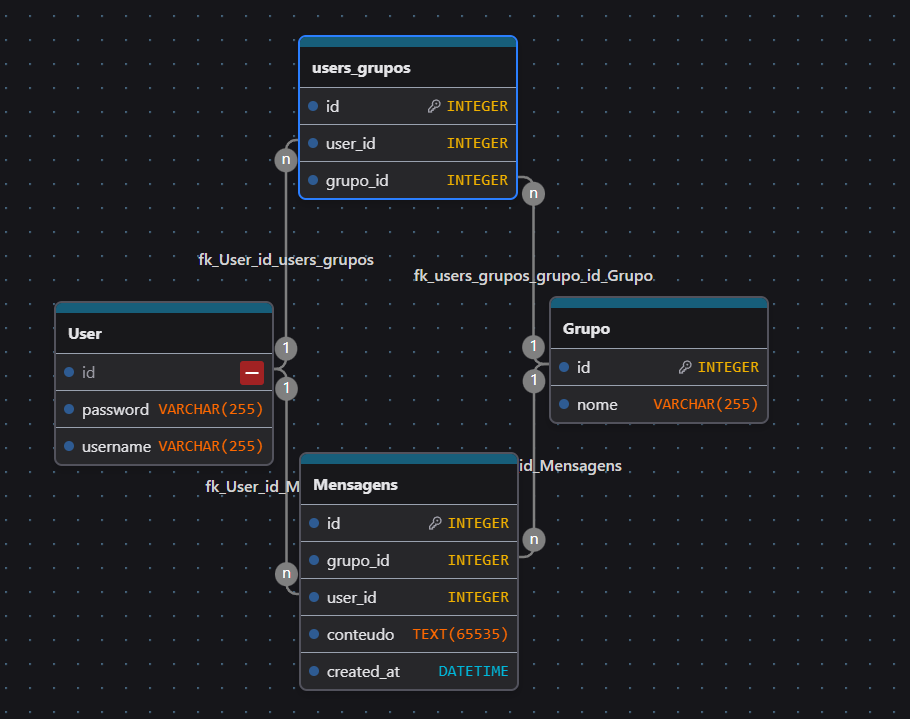
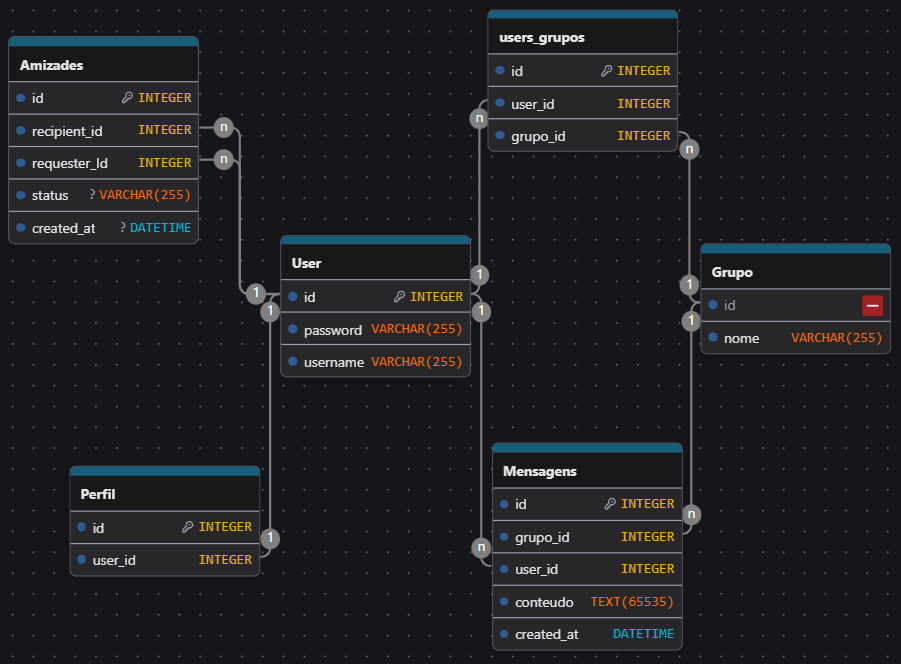
Mudança banco de dados /Amizades e perfil

Changed region(s): [[0.0, 0.0, 0.9945, 0.994]]

diff --git a/aprender/conversationapp/static/conversationapp/css/conversas.css b/aprender/conversationapp/static/conversationapp/css/conversas.css
@@ -11,16 +11,24 @@ body {
   background: #f5f7fb;
 }
 
+.painel-grupos {
+  width: 290px;
+  flex: 0 0 auto;
+  border-right: 1px solid #e6eaf2;
+  background: #f8fbff;
+  overflow: hidden;
+  transition: width 0.32s ease, border-color 0.32s ease;
+}
+
 .barra-esquerda {
   width: 290px;
   padding: 14px;
-  border-right: 1px solid #e6eaf2;
-  background: #f8fbff;
   display: flex;
   flex-direction: column;
   gap: 8px;
   height: 100vh;
   overflow-y: auto;
+  transition: transform 0.32s ease;
 }
 
 .botao-grupo {
@@ -56,8 +64,50 @@ body {
 
 .cabecalho-conversa {
   border-bottom: 1px solid #e6eaf2;
-  padding: 16px 20px;
+  padding: 0;
   background: #fff;
+  position: relative;
+}
+
+.cabecalho-textos {
+  display: flex;
+  flex-direction: column;
+  justify-content: center;
+  min-height: 74px;
+  padding: 16px 20px 16px 32px;
+  min-width: 0;
+}
+
+.botao-toggle-grupos {
+  width: 16px;
+  border: 0;
+  border-right: 1px solid #cfd8eb;
+  background: #f2f5fb;
+  cursor: pointer;
+  padding: 0;
+  position: absolute;
+  left: 0;
+  top: 0;
+  bottom: 0;
+  transition: background 0.2s ease, border-color 0.2s ease;
+}
+
+.botao-toggle-grupos::before {
+  content: "";
+  position: absolute;
+  top: 50%;
+  left: 50%;
+  width: 6px;
+  height: 6px;
+  border-left: 2px solid #60708d;
+  border-bottom: 2px solid #60708d;
+  transform: translate(-35%, -50%) rotate(45deg);
+  transition: transform 0.32s ease;
+}
+
+.botao-toggle-grupos:hover {
+  background: #e8eef9;
+  border-color: #b9c8e6;
 }
 
 .cabecalho-conversa h2 {
@@ -152,5 +202,18 @@ body {
 .composer input:disabled {
   opacity: 0.6;
   cursor: not-allowed;
+}
+
+body.grupos-ocultos .painel-grupos {
+  width: 0;
+  border-right-color: transparent;
+}
+
+body.grupos-ocultos .barra-esquerda {
+  transform: translateX(-100%);
+}
+
+body.grupos-ocultos .botao-toggle-grupos::before {
+  transform: translate(-65%, -50%) rotate(-135deg);
 }
 

diff --git a/aprender/conversationapp/templates/conversationapp/conversas.html b/aprender/conversationapp/templates/conversationapp/conversas.html
@@ -9,25 +9,36 @@
   <link rel="stylesheet" href="{% static 'conversationapp/css/conversas.css' %}">
 </head>
 <body>
-  <div class="barra-esquerda">
-    {% for grupo in grupos %}
-      <button
-        type="button"
-        class="botao-grupo"
-        data-grupo-id="{{ grupo.id }}"
-        data-grupo-nome="{{ grupo.nome }}"
-      >
-        {{ grupo.nome }}
-      </button>
-    {% empty %}
-      <p class="sem-grupos">Voce ainda nao participa de nenhum grupo.</p>
-    {% endfor %}
-  </div>
+  <aside class="painel-grupos">
+    <div class="barra-esquerda">
+      {% for grupo in grupos %}
+        <button
+          type="button"
+          class="botao-grupo"
+          data-grupo-id="{{ grupo.id }}"
+          data-grupo-nome="{{ grupo.nome }}"
+        >
+          {{ grupo.nome }}
+        </button>
+      {% empty %}
+        <p class="sem-grupos">Voce ainda nao participa de nenhum grupo.</p>
+      {% endfor %}
+    </div>
+  </aside>
 
   <section class="painel-conversa" data-user-id="{{ request.user.id }}">
     <header class="cabecalho-conversa">
-      <h2 id="titulo-grupo">Selecione um grupo</h2>
-      <p id="status-conexao" class="status-conexao">Sem conexao ativa</p>
+      <button
+        id="btn-toggle-grupos"
+        class="botao-toggle-grupos"
+        type="button"
+        aria-label="Ocultar grupos"
+        aria-expanded="true"
+      ></button>
+      <div class="cabecalho-textos">
+        <h2 id="titulo-grupo">Selecione um grupo</h2>
+        <p id="status-conexao" class="status-conexao">Sem conexao ativa</p>
+      </div>
     </header>
 
     <main id="lista-mensagens" class="lista-mensagens">

diff --git a/aprender/conversationapp/static/conversationapp/js/conversas.js b/aprender/conversationapp/static/conversationapp/js/conversas.js
@@ -3,6 +3,7 @@
   const userId = Number(painelConversa?.dataset.userId || 0);
 
   const botoesGrupo = [...document.querySelectorAll(".botao-grupo")];
+  const btnToggleGrupos = document.getElementById("btn-toggle-grupos");
   const tituloGrupo = document.getElementById("titulo-grupo");
   const statusConexao = document.getElementById("status-conexao");
   const listaMensagens = document.getElementById("lista-mensagens");
@@ -14,6 +15,19 @@
 
   let socket = null;
   let grupoAtualId = null;
+
+  function atualizarEstadoBotaoGrupos() {
+    if (!btnToggleGrupos) {
+      return;
+    }
+
+    const gruposOcultos = document.body.classList.contains("grupos-ocultos");
+    btnToggleGrupos.setAttribute("aria-expanded", (!gruposOcultos).toString());
+    btnToggleGrupos.setAttribute(
+      "aria-label",
+      gruposOcultos ? "Mostrar grupos" : "Ocultar grupos"
+    );
+  }
 
   function atualizarStatus(texto) {
     if (statusConexao) {
@@ -241,6 +255,14 @@
         atualizarStatus("Erro ao enviar mensagem");
         console.error("Erro ao enviar mensagem:", erro);
       }
+    });
+  }
+
+  if (btnToggleGrupos) {
+    atualizarEstadoBotaoGrupos();
+    btnToggleGrupos.addEventListener("click", () => {
+      document.body.classList.toggle("grupos-ocultos");
+      atualizarEstadoBotaoGrupos();
     });
   }
 

diff --git a/aprender/conversationapp/static/conversationapp/js/perfil.js b/aprender/conversationapp/static/conversationapp/js/perfil.js
@@ -1,0 +1,1 @@
+// Nada aqui.

diff --git a/aprender/conversationapp/models.py b/aprender/conversationapp/models.py
@@ -2,6 +2,58 @@ from django.conf import settings
 from django.db import models
 
 
+class Perfil(models.Model):
+    user = models.OneToOneField(
+        settings.AUTH_USER_MODEL,
+        on_delete=models.CASCADE,
+        related_name="perfil",
+    )
+
+    class Meta:
+        db_table = "perfil"
+
+    def __str__(self):
+        return f"perfil user={self.user_id}"
+
+
+class Amizade(models.Model):
+    STATUS_PENDING = "pending"
+    STATUS_ACCEPTED = "accepted"
+    STATUS_BLOCKED = "blocked"
+
+    requester = models.ForeignKey(
+        settings.AUTH_USER_MODEL,
+        on_delete=models.CASCADE,
+        related_name="amizades_enviadas",
+    )
+    recipient = models.ForeignKey(
+        settings.AUTH_USER_MODEL,
+        on_delete=models.CASCADE,
+        related_name="amizades_recebidas",
+    )
+    status = models.CharField(
+        max_length=20,
+        default=STATUS_PENDING,
+    )
+    created_at = models.DateTimeField(auto_now_add=True)
+
+    class Meta:
+        db_table = "amizades"
+        constraints = [
+            models.CheckConstraint(
+                condition=~models.Q(requester=models.F("recipient")),
+                name="ck_amizade_user_diff",
+            ),
+            models.UniqueConstraint(
+                fields=["requester", "recipient"],
+                name="uniq_amizade_requester_recipient",
+            ),
+        ]
+
+    def __str__(self):
+        return f"{self.requester_id} -> {self.recipient_id} ({self.status})"
+
+
 class Grupo(models.Model):
     nome = models.CharField(max_length=120)
     participantes = models.ManyToManyField(

diff --git a/aprender/conversationapp/migrations/0002_perfil_amizade.py b/aprender/conversationapp/migrations/0002_perfil_amizade.py
@@ -1,0 +1,40 @@
+# Generated by Django 5.2.14 on 2026-05-28 00:07
+
+import django.db.models.deletion
+from django.conf import settings
+from django.db import migrations, models
+
+
+class Migration(migrations.Migration):
+
+    dependencies = [
+        ('conversationapp', '0001_initial'),
+        migrations.swappable_dependency(settings.AUTH_USER_MODEL),
+    ]
+
+    operations = [
+        migrations.CreateModel(
+            name='Perfil',
+            fields=[
+                ('id', models.BigAutoField(auto_created=True, primary_key=True, serialize=False, verbose_name='ID')),
+                ('user', models.OneToOneField(on_delete=django.db.models.deletion.CASCADE, related_name='perfil', to=settings.AUTH_USER_MODEL)),
+            ],
+            options={
+                'db_table': 'perfil',
+            },
+        ),
+        migrations.CreateModel(
+            name='Amizade',
+            fields=[
+                ('id', models.BigAutoField(auto_created=True, primary_key=True, serialize=False, verbose_name='ID')),
+                ('status', models.CharField(default='pending', max_length=20)),
+                ('created_at', models.DateTimeField(auto_now_add=True)),
+                ('recipient', models.ForeignKey(on_delete=django.db.models.deletion.CASCADE, related_name='amizades_recebidas', to=settings.AUTH_USER_MODEL)),
+                ('requester', models.ForeignKey(on_delete=django.db.models.deletion.CASCADE, related_name='amizades_enviadas', to=settings.AUTH_USER_MODEL)),
+            ],
+            options={
+                'db_table': 'amizades',
+                'constraints': [models.CheckConstraint(condition=models.Q(('requester', models.F('recipient')), _negated=True), name='ck_amizade_user_diff'), models.UniqueConstraint(fields=('requester', 'recipient'), name='uniq_amizade_requester_recipient')],
+            },
+        ),
+    ]

diff --git a/aprender/conversationapp/admin.py b/aprender/conversationapp/admin.py
@@ -1,6 +1,6 @@
 from django.contrib import admin
 
-from .models import Grupo, Mensagem, UsuarioGrupo
+from .models import Amizade, Grupo, Mensagem, Perfil, UsuarioGrupo
 
 
 @admin.register(Grupo)
@@ -21,3 +21,16 @@ class MensagemAdmin(admin.ModelAdmin):
     list_display = ("id", "grupo", "user", "created_at")
     list_filter = ("grupo", "created_at")
     search_fields = ("conteudo", "user__username", "grupo__nome")
+
+
[email redacted](Perfil)
+class PerfilAdmin(admin.ModelAdmin):
+    list_display = ("id", "user")
+    search_fields = ("user__username",)
+
+
[email redacted](Amizade)
+class AmizadeAdmin(admin.ModelAdmin):
+    list_display = ("id", "requester", "recipient", "status", "created_at")
+    list_filter = ("status", "created_at")
+    search_fields = ("requester__username", "recipient__username")

diff --git a/aprender/conversationapp/signals.py b/aprender/conversationapp/signals.py
@@ -1,0 +1,14 @@
+from django.contrib.auth import get_user_model
+from django.db.models.signals import post_save
+from django.dispatch import receiver
+
+from .models import Perfil
+
+User = get_user_model()
+
+
+@receiver(post_save, sender=User)
+def criar_perfil_para_novo_usuario(instance, created, **_kwargs):
+    if not created:
+        return
+    Perfil.objects.get_or_create(user=instance)

diff --git a/aprender/conversationapp/apps.py b/aprender/conversationapp/apps.py
@@ -1,6 +1,10 @@
 from django.apps import AppConfig
+import importlib
 
 
 class ConversationappConfig(AppConfig):
     default_auto_field = 'django.db.models.BigAutoField'
     name = 'conversationapp'
+
+    def ready(self):
+        importlib.import_module("conversationapp.signals")

diff --git a/README.md b/README.md
@@ -22,7 +22,7 @@ Projeto de estudo com Django para praticar:
 4. Rode as migracoes
 5. Inicie o servidor
 
-### Windows (PowerShell)Volpini/Projeto_aprender_Django.gi
+### Windows (PowerShell)
 
 ```powershell
 cd Projeto_aprender_Django